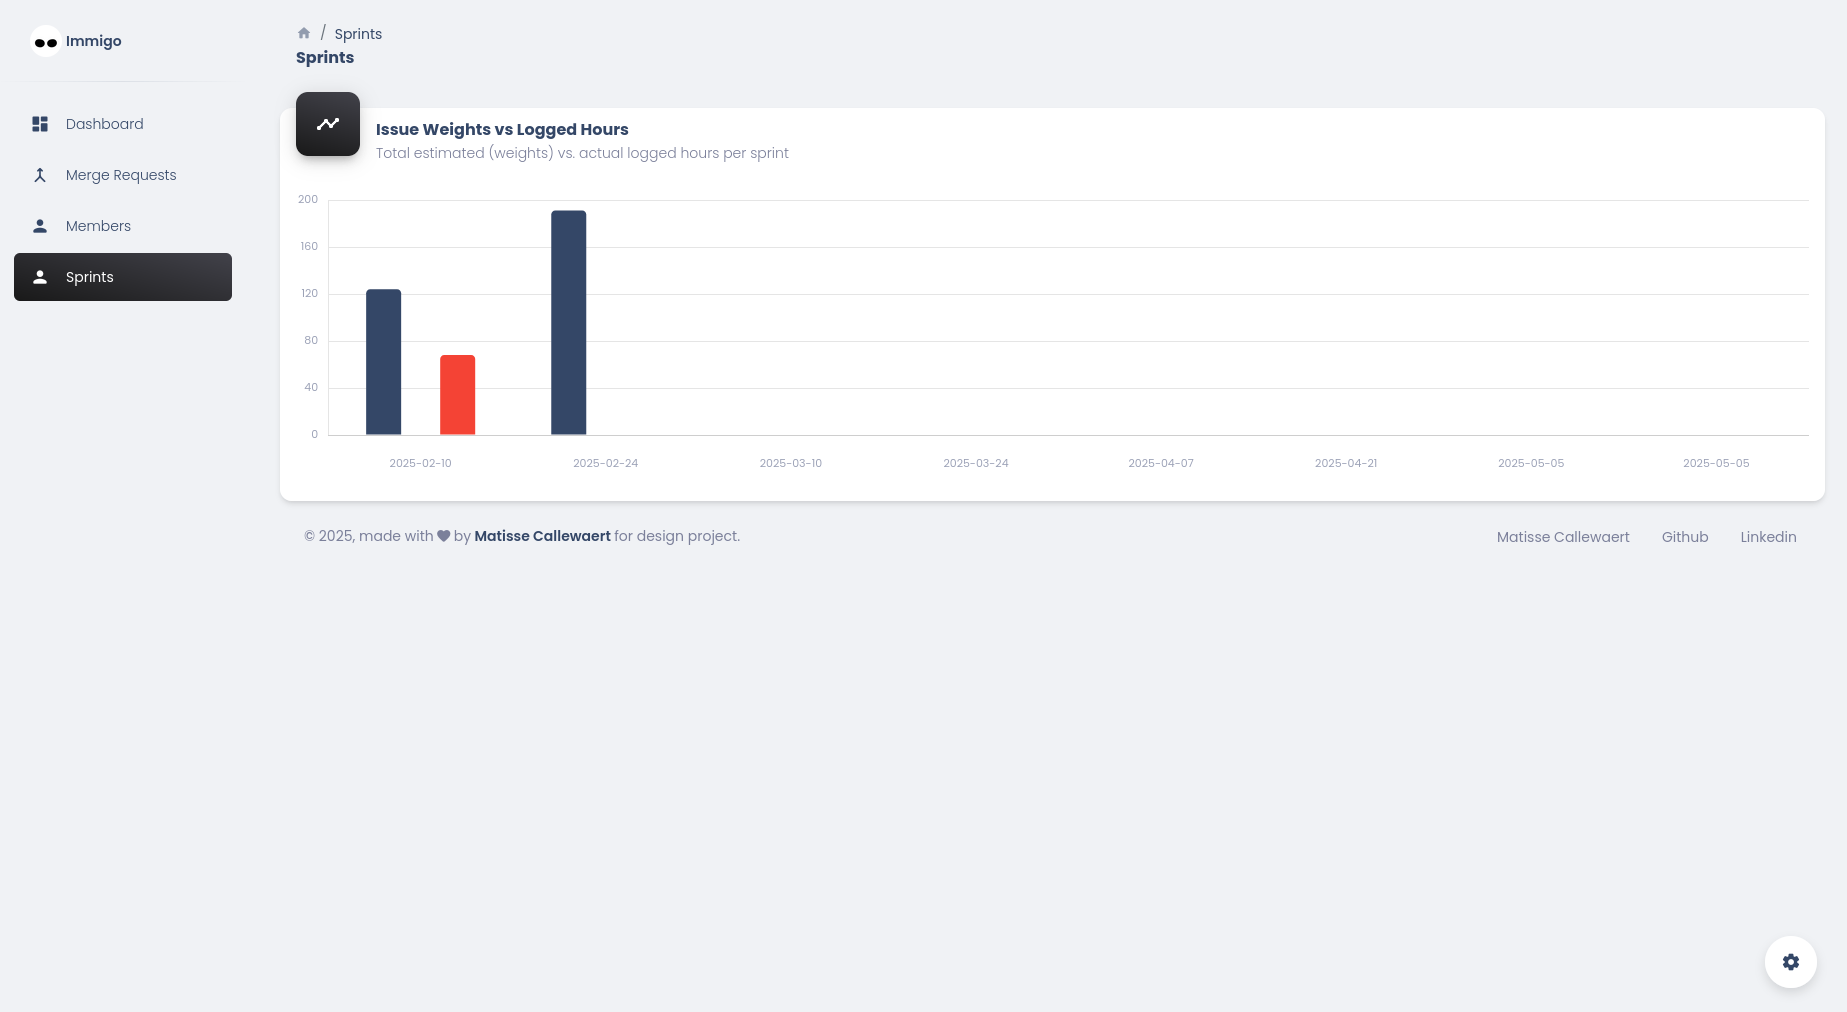
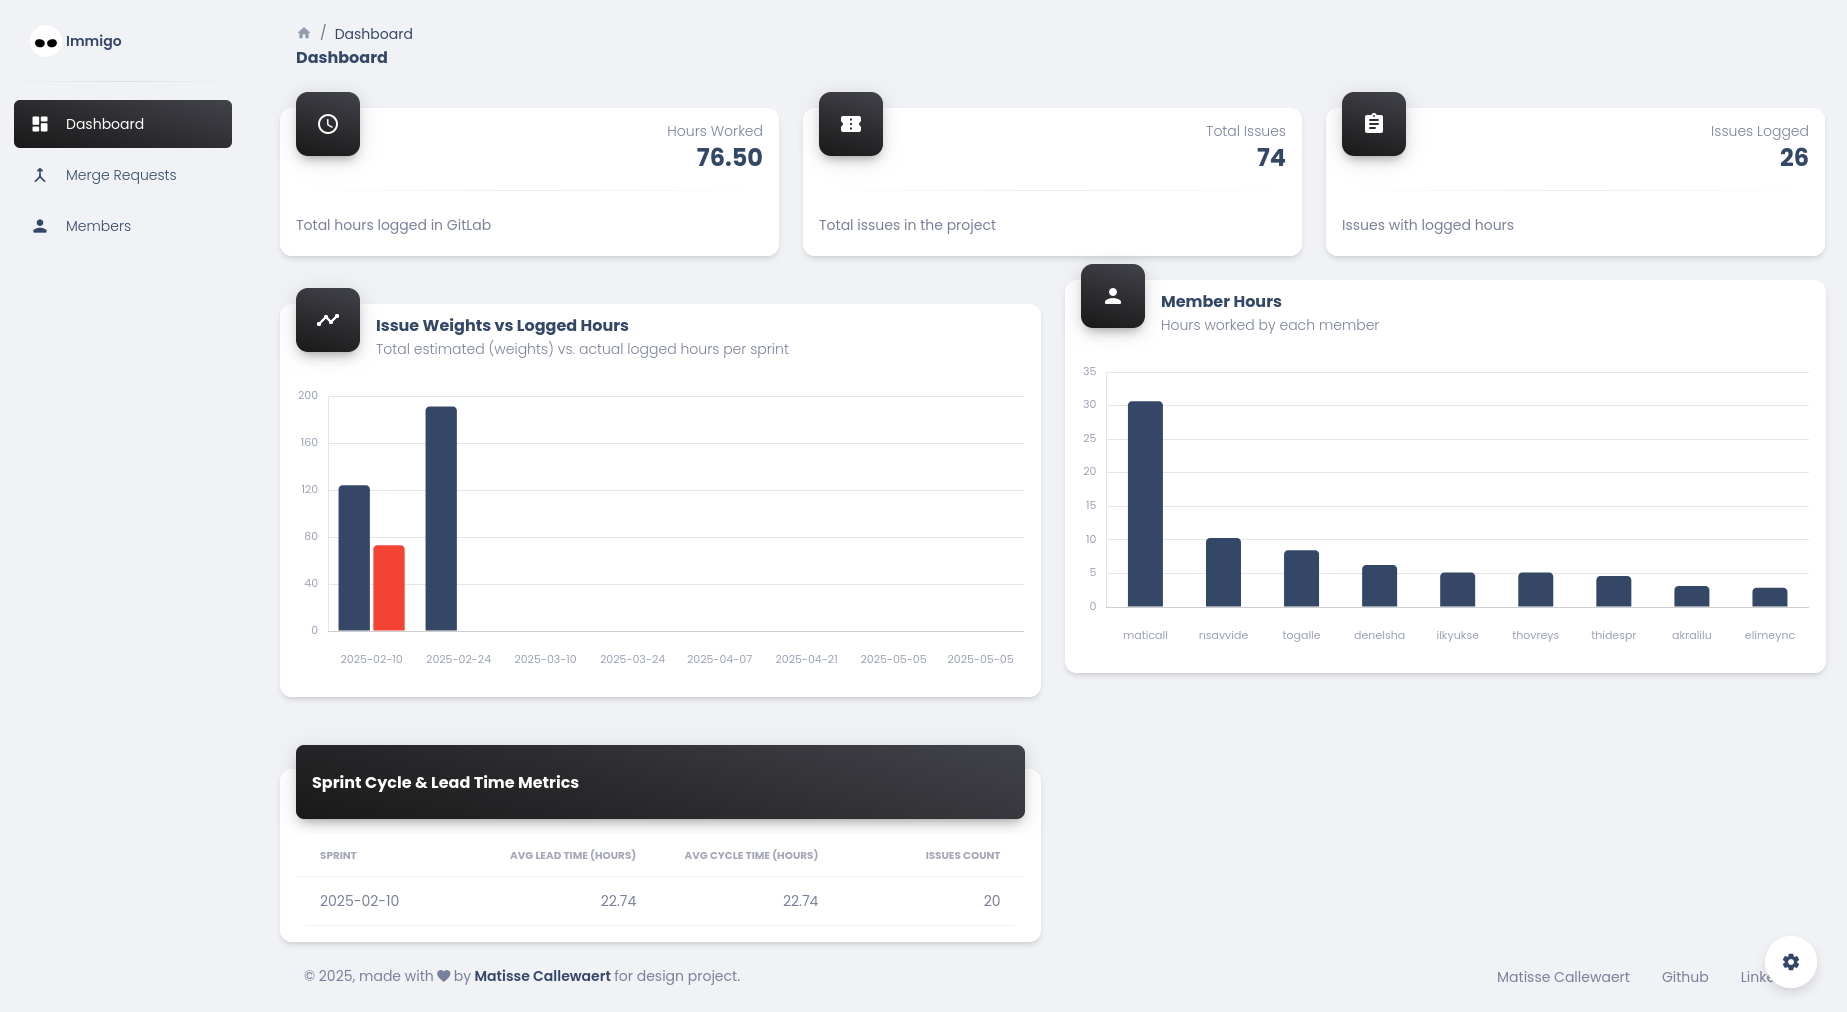
:truck: Restructure sprints component

diff --git a/src/layouts/dashboard/index.js b/src/layouts/dashboard/index.js
@@ -10,6 +10,7 @@ import { useMaterialUIController } from "context";
 import VerticalBarChart from "examples/Charts/BarCharts/VerticalBarChart";
 import MDTypography from "components/MDTypography";
 import SprintCycleTime from "./components/SprintCycleTime";
+import Sprints from "./components/sprints";
 
 function Dashboard() {
   const [controller] = useMaterialUIController();
@@ -270,14 +271,7 @@ function Dashboard() {
             <Grid container spacing={3}>
               <Grid item xs={12} md={6}>
                 <FadeIn duration={300}>
-                  <VerticalBarChart
-                    icon={{ component: "today", color: "dark" }}
-                    title="Iteration Logged Hours"
-                    description="Logged hours per sprint (iteration)"
-                    height="19.125rem"
-                    chart={gitlabStats.iterationData}
-                    color={sidenavColor}
-                  />
+                  <Sprints />
                 </FadeIn>
               </Grid>
               <Grid item xs={12} md={6}>

diff --git a/src/layouts/dashboard/components/sprints/index.js b/src/layouts/dashboard/components/sprints/index.js
@@ -137,22 +137,18 @@ function Sprints() {
   }
 
   return (
-    <DashboardLayout>
-      <DashboardNavbar />
-      <MDBox py={3}>
-        <Grid container spacing={3}>
-          <Grid item xs={12}>
-            <VerticalBarChart
-              icon={{ component: "timeline", color: sidenavColor }}
-              title="Issue Weights vs Logged Hours"
-              description="Total estimated (weights) vs. actual logged hours per sprint"
-              chart={sprintsChartData}
-            />
-          </Grid>
+    <MDBox py={3}>
+      <Grid container spacing={3}>
+        <Grid item xs={12}>
+          <VerticalBarChart
+            icon={{ component: "timeline", color: sidenavColor }}
+            title="Issue Weights vs Logged Hours"
+            description="Total estimated (weights) vs. actual logged hours per sprint"
+            chart={sprintsChartData}
+          />
         </Grid>
-      </MDBox>
-      <Footer />
-    </DashboardLayout>
+      </Grid>
+    </MDBox>
   );
 }
 

diff --git a/src/routes.js b/src/routes.js
@@ -40,7 +40,6 @@ import Icon from "@mui/material/Icon";
 import Dashboard from "layouts/dashboard";
 import MemberIterationMetrics from "layouts/members";
 import Merges from "layouts/merges";
-import Sprints from "layouts/sprints";
 
 const routes = [
   {
@@ -66,14 +65,6 @@ const routes = [
     icon: <Icon fontSize="small">person</Icon>,
     route: "/members",
     component: <MemberIterationMetrics />,
-  },
-  {
-    type: "collapse",
-    name: "Sprints",
-    key: "sprints",
-    icon: <Icon fontSize="small">person</Icon>,
-    route: "/sprints",
-    component: <Sprints />,
   },
 ];
 

diff --git a/README.md b/README.md
@@ -4,7 +4,6 @@ This is a dashboard made especially for design project. It shows information abo
 When you want to use it, set the values in the `.env-example` file to the ones of your project and then rename it to `.env`. After that, you can run the dashboard using `npm run start`. If you want to deploy it, you can use `npm run build` and then deploy the `build` folder.
 
 Here some screenshots of the dashboard:
-![alt text](image.png)
+![alt text](image-3.png)
 ![alt text](image-1.png)
 ![alt text](image-2.png)
-![alt text](image-3.png)
